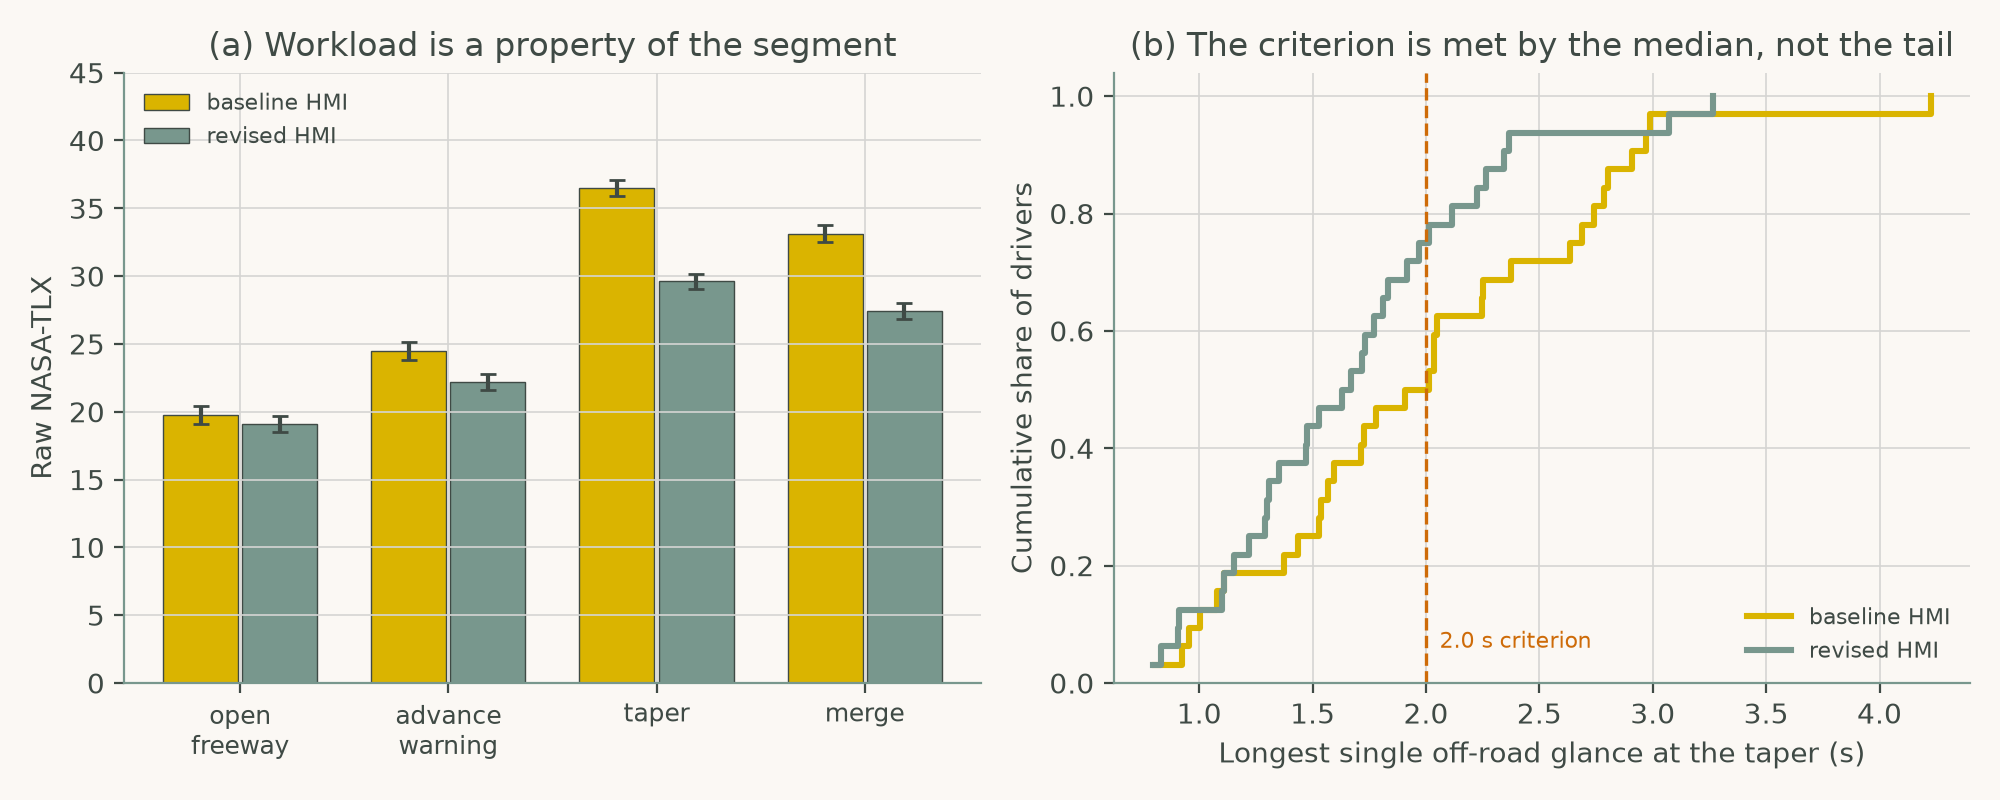
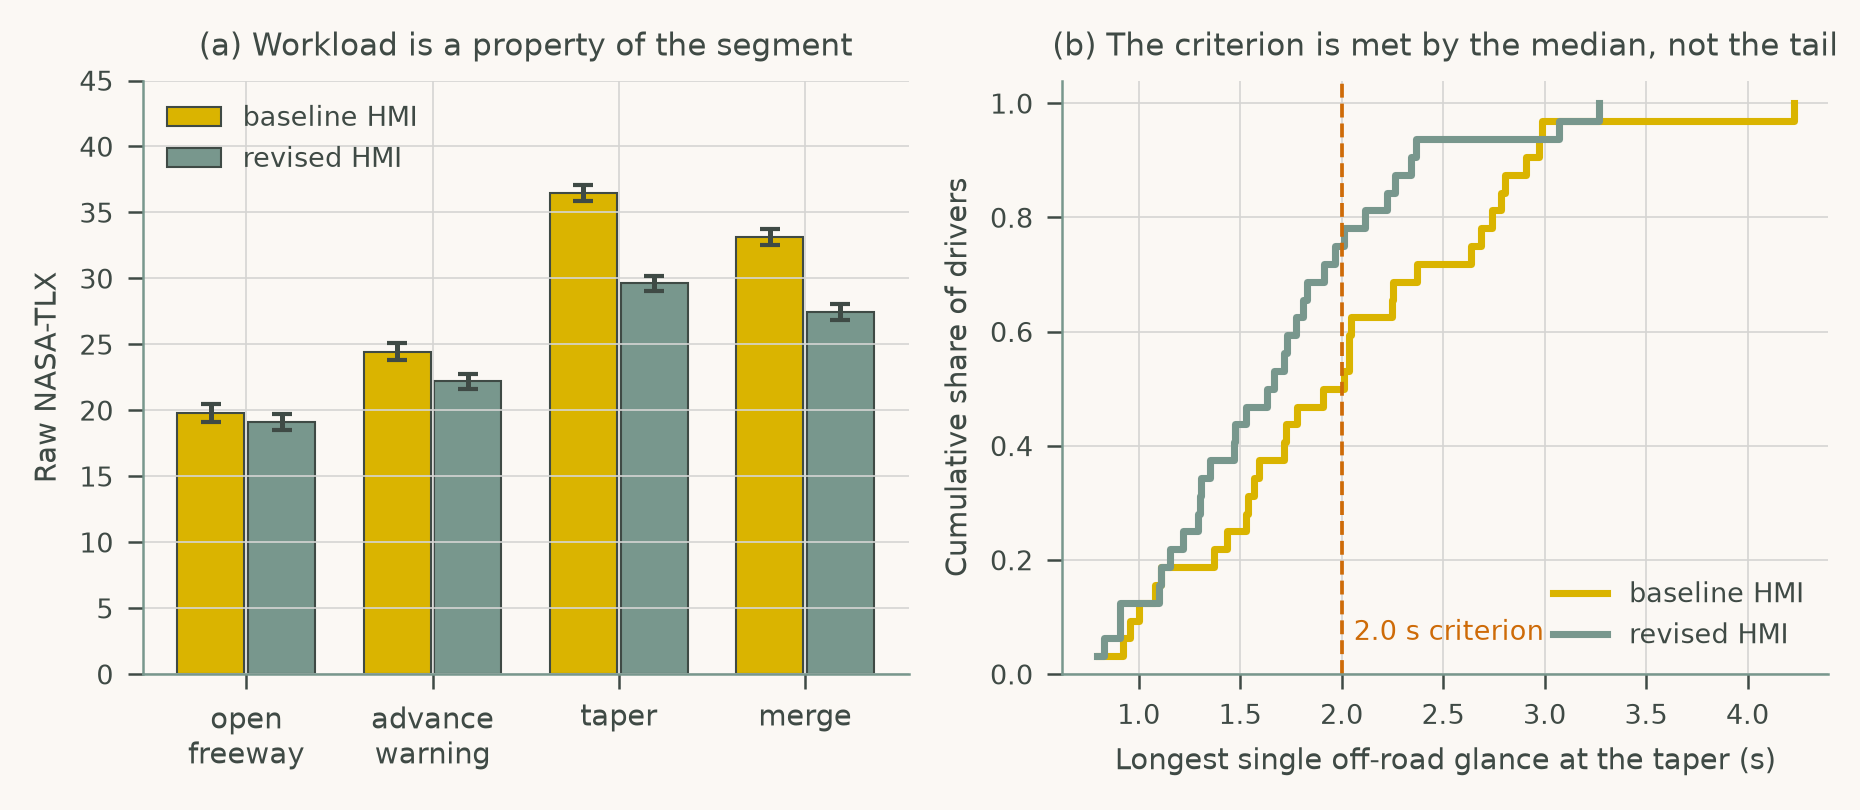
Redraw Chapter 2 figures at print size with readable type

diff --git a/chapters/ch02_cognitive_foundations/cs1_workload_tlx_eye_tracking.py b/chapters/ch02_cognitive_foundations/cs1_workload_tlx_eye_tracking.py
@@ -142,31 +142,35 @@ plt.rcParams.update({
     "xtick.color": INK, "ytick.color": INK,
     "figure.facecolor": PAPER, "axes.facecolor": PAPER,
     "axes.spines.top": False, "axes.spines.right": False,
-    "axes.grid": True, "grid.color": GRID, "grid.linewidth": 0.6})
+    "axes.grid": True, "grid.color": GRID, "grid.linewidth": 0.4,
+    "font.size": 7, "axes.titlesize": 7.5, "axes.labelsize": 7, "legend.fontsize": 6.5,
+    "xtick.labelsize": 6.5, "ytick.labelsize": 6.5, "axes.linewidth": 0.6,
+    "xtick.major.width": 0.6, "ytick.major.width": 0.6, "lines.linewidth": 1.2,
+    "legend.frameon": False})
 col = {"baseline HMI": GOLD, "revised HMI": SAGE}
-fig, (a1, a2) = plt.subplots(1, 2, figsize=(10, 4))
+fig, (a1, a2) = plt.subplots(1, 2, figsize=(6.2, 2.7))
 
 x = np.arange(len(SEGMENTS))                                   # (a) workload by segment
 for k, cond in enumerate(CONDITIONS):
     s = df[df.condition == cond].groupby("segment")["tlx_raw"]
     a1.bar(x + (k - 0.5) * 0.38, s.mean()[SEGMENTS], 0.36, yerr=s.sem()[SEGMENTS],
-           capsize=3, color=col[cond], edgecolor=INK, lw=0.5, ecolor=INK, label=cond)
-a1.set_xticks(x, [s.replace(" ", "\n") for s in SEGMENTS], fontsize=9)
+           capsize=2.3, color=col[cond], edgecolor=INK, lw=0.5, ecolor=INK, label=cond)
+a1.set_xticks(x, [s.replace(" ", "\n") for s in SEGMENTS], fontsize=7)
 a1.set(ylabel="Raw NASA-TLX", ylim=(0, 45),
        title="(a) Workload is a property of the segment")
-a1.legend(fontsize=8, frameon=False, loc="upper left")
+a1.legend(fontsize=6.5, loc="upper left")
 
 for cond in CONDITIONS:                                        # (b) longest glance at the taper
     g = np.sort(df[(df.segment == "taper") & (df.condition == cond)]["longest_glance"])
-    a2.step(g, np.arange(1, len(g) + 1) / len(g), where="post", color=col[cond], lw=2.2,
+    a2.step(g, np.arange(1, len(g) + 1) / len(g), where="post", color=col[cond], lw=1.7,
             label=cond)
-a2.axvline(2.0, color=RUST, ls="--", lw=1.2)
-a2.text(2.06, 0.06, "2.0 s criterion", fontsize=8, color=RUST)
+a2.axvline(2.0, color=RUST, ls="--", lw=0.9)
+a2.text(2.06, 0.06, "2.0 s criterion", fontsize=6.5, color=RUST)
 a2.set(xlabel="Longest single off-road glance at the taper (s)",
        ylabel="Cumulative share of drivers", ylim=(0, 1.04),
        title="(b) The criterion is met by the median, not the tail")
-a2.legend(fontsize=8, frameon=False, loc="lower right")
+a2.legend(fontsize=6.5, loc="lower right")
 
 fig.tight_layout()
-fig.savefig("fig02_06_cs1_workload.png", dpi=200)
+fig.savefig("fig02_06_cs1_workload.png", dpi=300)
 print("\n   figure written to fig02_06_cs1_workload.png")

diff --git a/chapters/ch02_cognitive_foundations/cs2_trust_calibration.py b/chapters/ch02_cognitive_foundations/cs2_trust_calibration.py
@@ -134,9 +134,13 @@ plt.rcParams.update({
     "xtick.color": INK, "ytick.color": INK,
     "figure.facecolor": PAPER, "axes.facecolor": PAPER,
     "axes.spines.top": False, "axes.spines.right": False,
-    "axes.grid": True, "grid.color": GRID, "grid.linewidth": 0.6})
+    "axes.grid": True, "grid.color": GRID, "grid.linewidth": 0.4,
+    "font.size": 7, "axes.titlesize": 7.5, "axes.labelsize": 7, "legend.fontsize": 6.5,
+    "xtick.labelsize": 6.5, "ytick.labelsize": 6.5, "axes.linewidth": 0.6,
+    "xtick.major.width": 0.6, "ytick.major.width": 0.6, "lines.linewidth": 1.2,
+    "legend.frameon": False})
 col = dict(zip(CONDITIONS, [GOLD, SAGE]))
-fig, (a1, a2) = plt.subplots(1, 2, figsize=(10, 4))
+fig, (a1, a2) = plt.subplots(1, 2, figsize=(6.2, 2.7))
 
 # (a) action rate when the system is silent, against the risk silence hides
 w, xs = 0.38, np.arange(len(CONTEXTS))
@@ -147,7 +151,7 @@ for k, cond in enumerate(CONDITIONS):
            label=cond)
 a1b = a1.twinx()
 a1b.plot(xs, [posterior(c, False) for c in CONTEXTS], "o-", color=RUST, mec=INK,
-         lw=2, ms=7, label="P(conflict | silence), right")
+         lw=1.6, ms=5.4, label="P(conflict | silence), right")
 a1b.set_ylabel("P(conflict | silence)", color=RUST)
 a1b.tick_params(axis="y", colors=RUST)
 a1b.spines["right"].set(visible=True, color=RUST)
@@ -156,7 +160,7 @@ a1.set_xticks(xs, CONTEXTS)
 a1.set(ylabel="P(protective action | silence)", ylim=(0, 0.75),
        title="(a) Reliance on silence vs. what it hides")
 h1, l1 = a1.get_legend_handles_labels(); h2, l2 = a1b.get_legend_handles_labels()
-a1.legend(h1 + h2, l1 + l2, fontsize=8, frameon=False, loc="upper left")
+a1.legend(h1 + h2, l1 + l2, fontsize=6.5, loc="upper left")
 
 # (b) unprotected conflicts
 for k, cond in enumerate(CONDITIONS):
@@ -164,12 +168,12 @@ for k, cond in enumerate(CONDITIONS):
                        df.conflict]["acted"].mean()) for c in CONTEXTS]
     b = a2.bar(xs + (k - 0.5) * w, v, w * 0.94, color=col[cond], edgecolor=INK,
                lw=0.5, label=cond)
-    a2.bar_label(b, fmt="%.1f%%", fontsize=8, padding=2)
+    a2.bar_label(b, fmt="%.1f%%", fontsize=6.5, padding=1.6)
 a2.set_xticks(xs, CONTEXTS)
 a2.set(ylabel="Conflicts left unprotected (%)", ylim=(0, 56),
-       title="(b) The outcome the questionnaire could not see")
-a2.legend(fontsize=8, frameon=False, loc="upper left")
+       title="(b) What the questionnaire could not see")
+a2.legend(fontsize=6.5, loc="upper left")
 
 fig.tight_layout()
-fig.savefig("fig02_07_cs2_trust.png", dpi=200)
+fig.savefig("fig02_07_cs2_trust.png", dpi=300)
 print("\n   figure written to fig02_07_cs2_trust.png")
